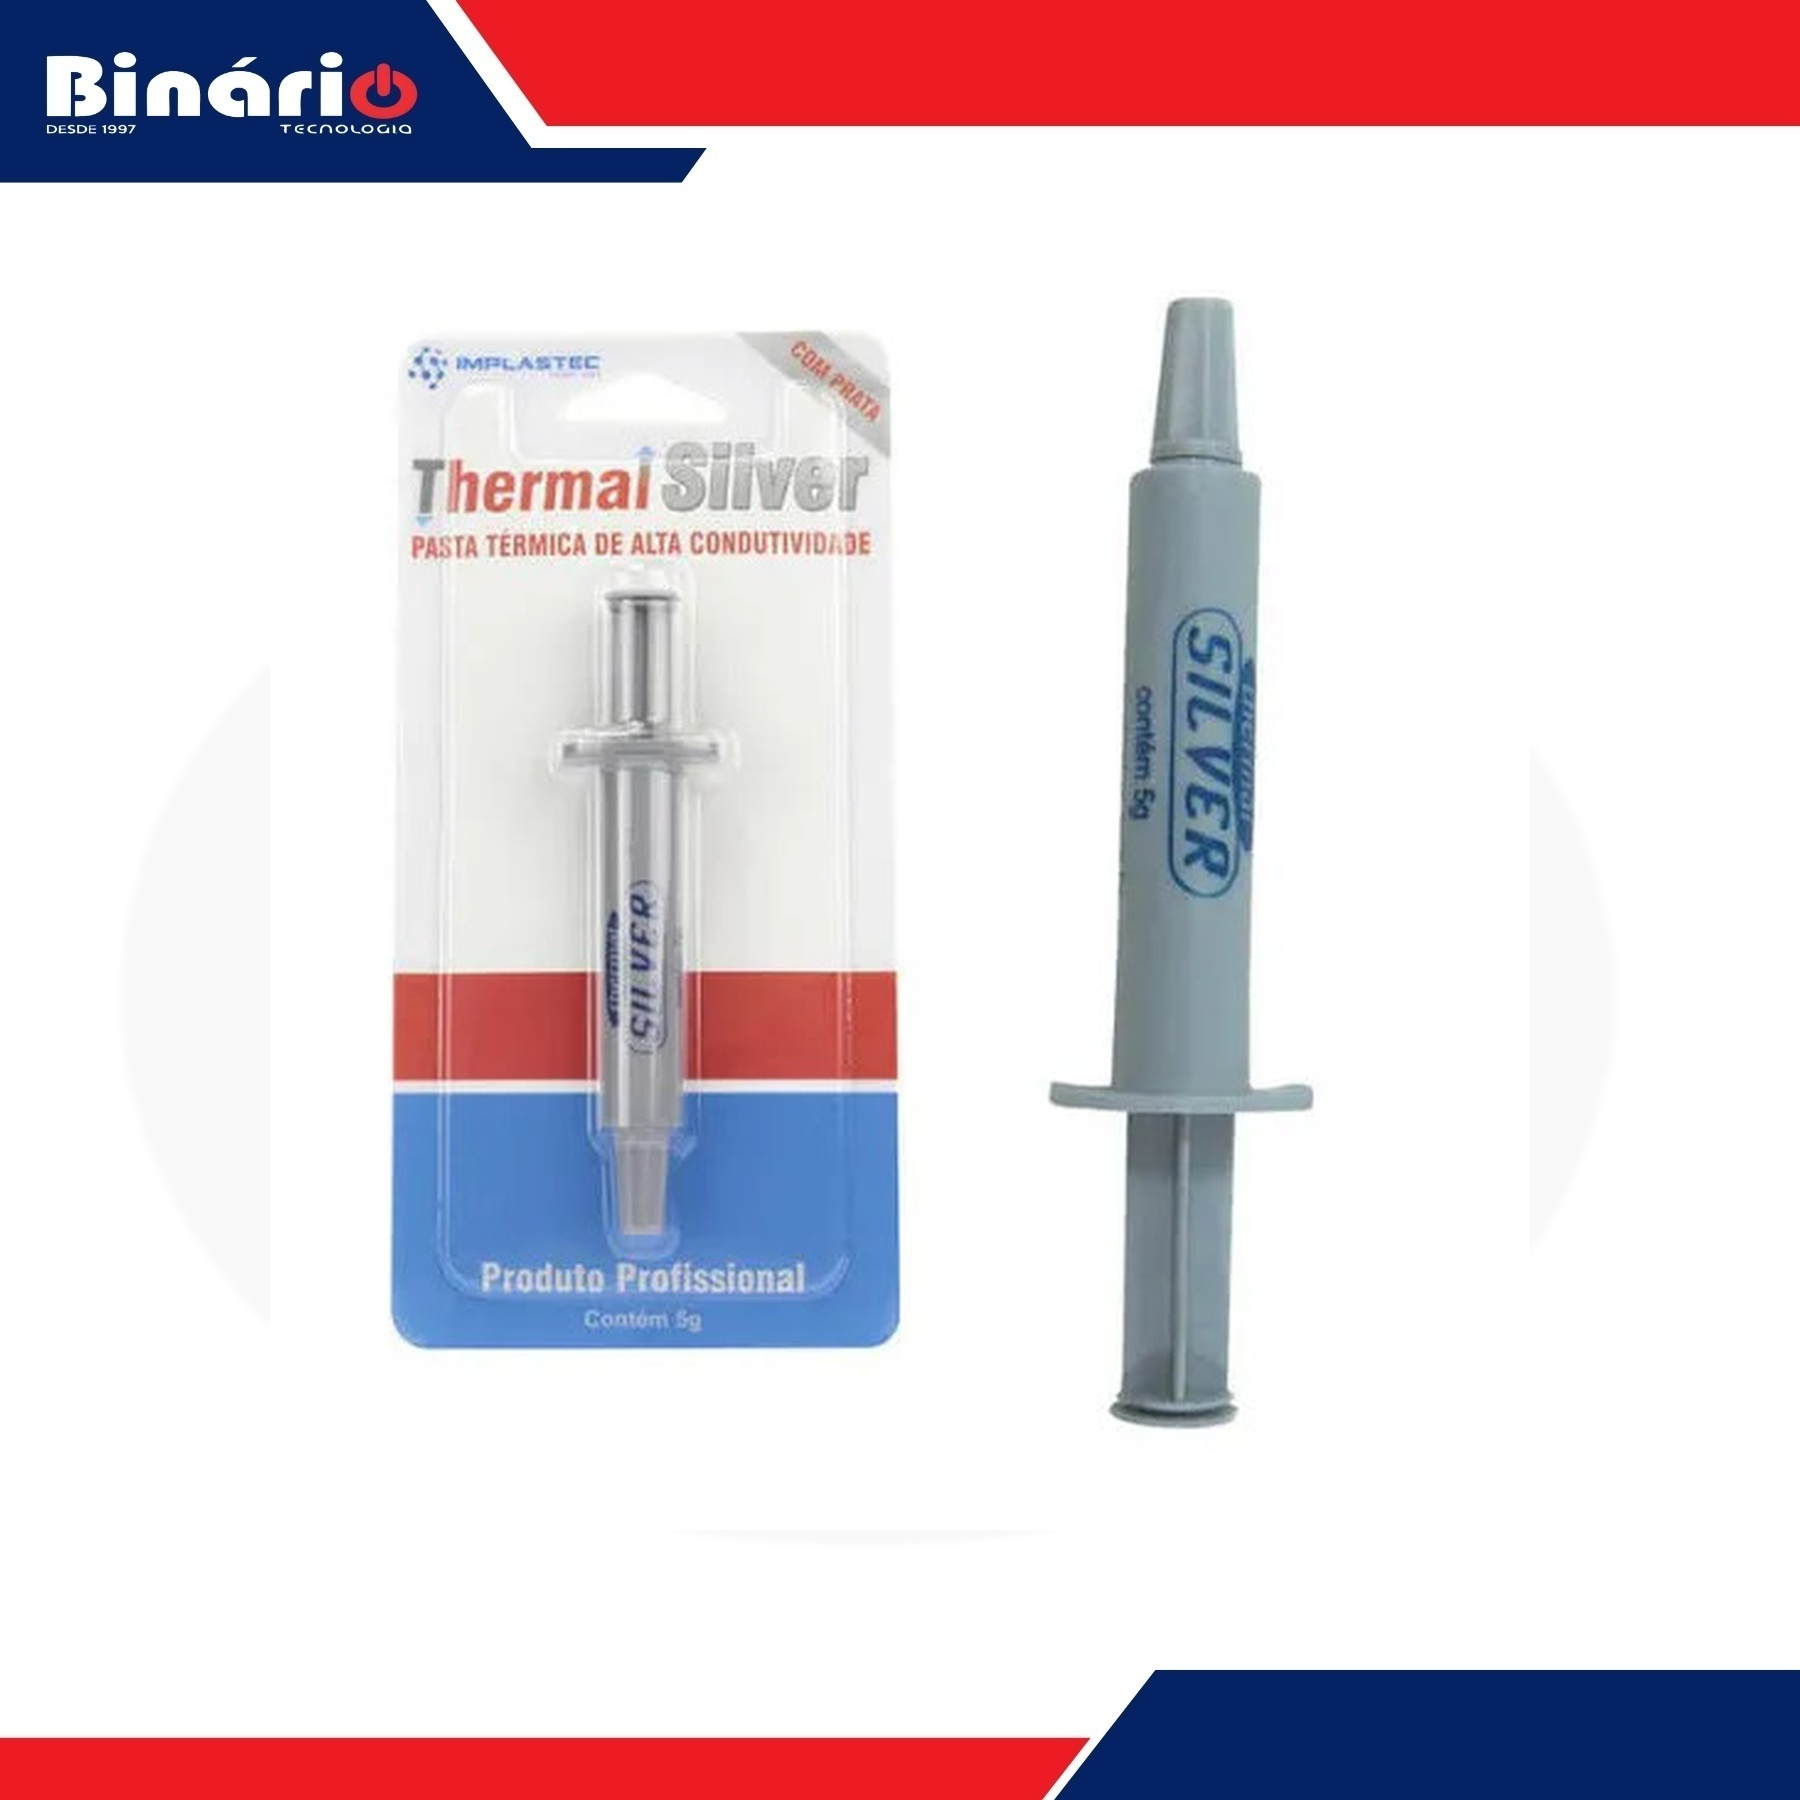
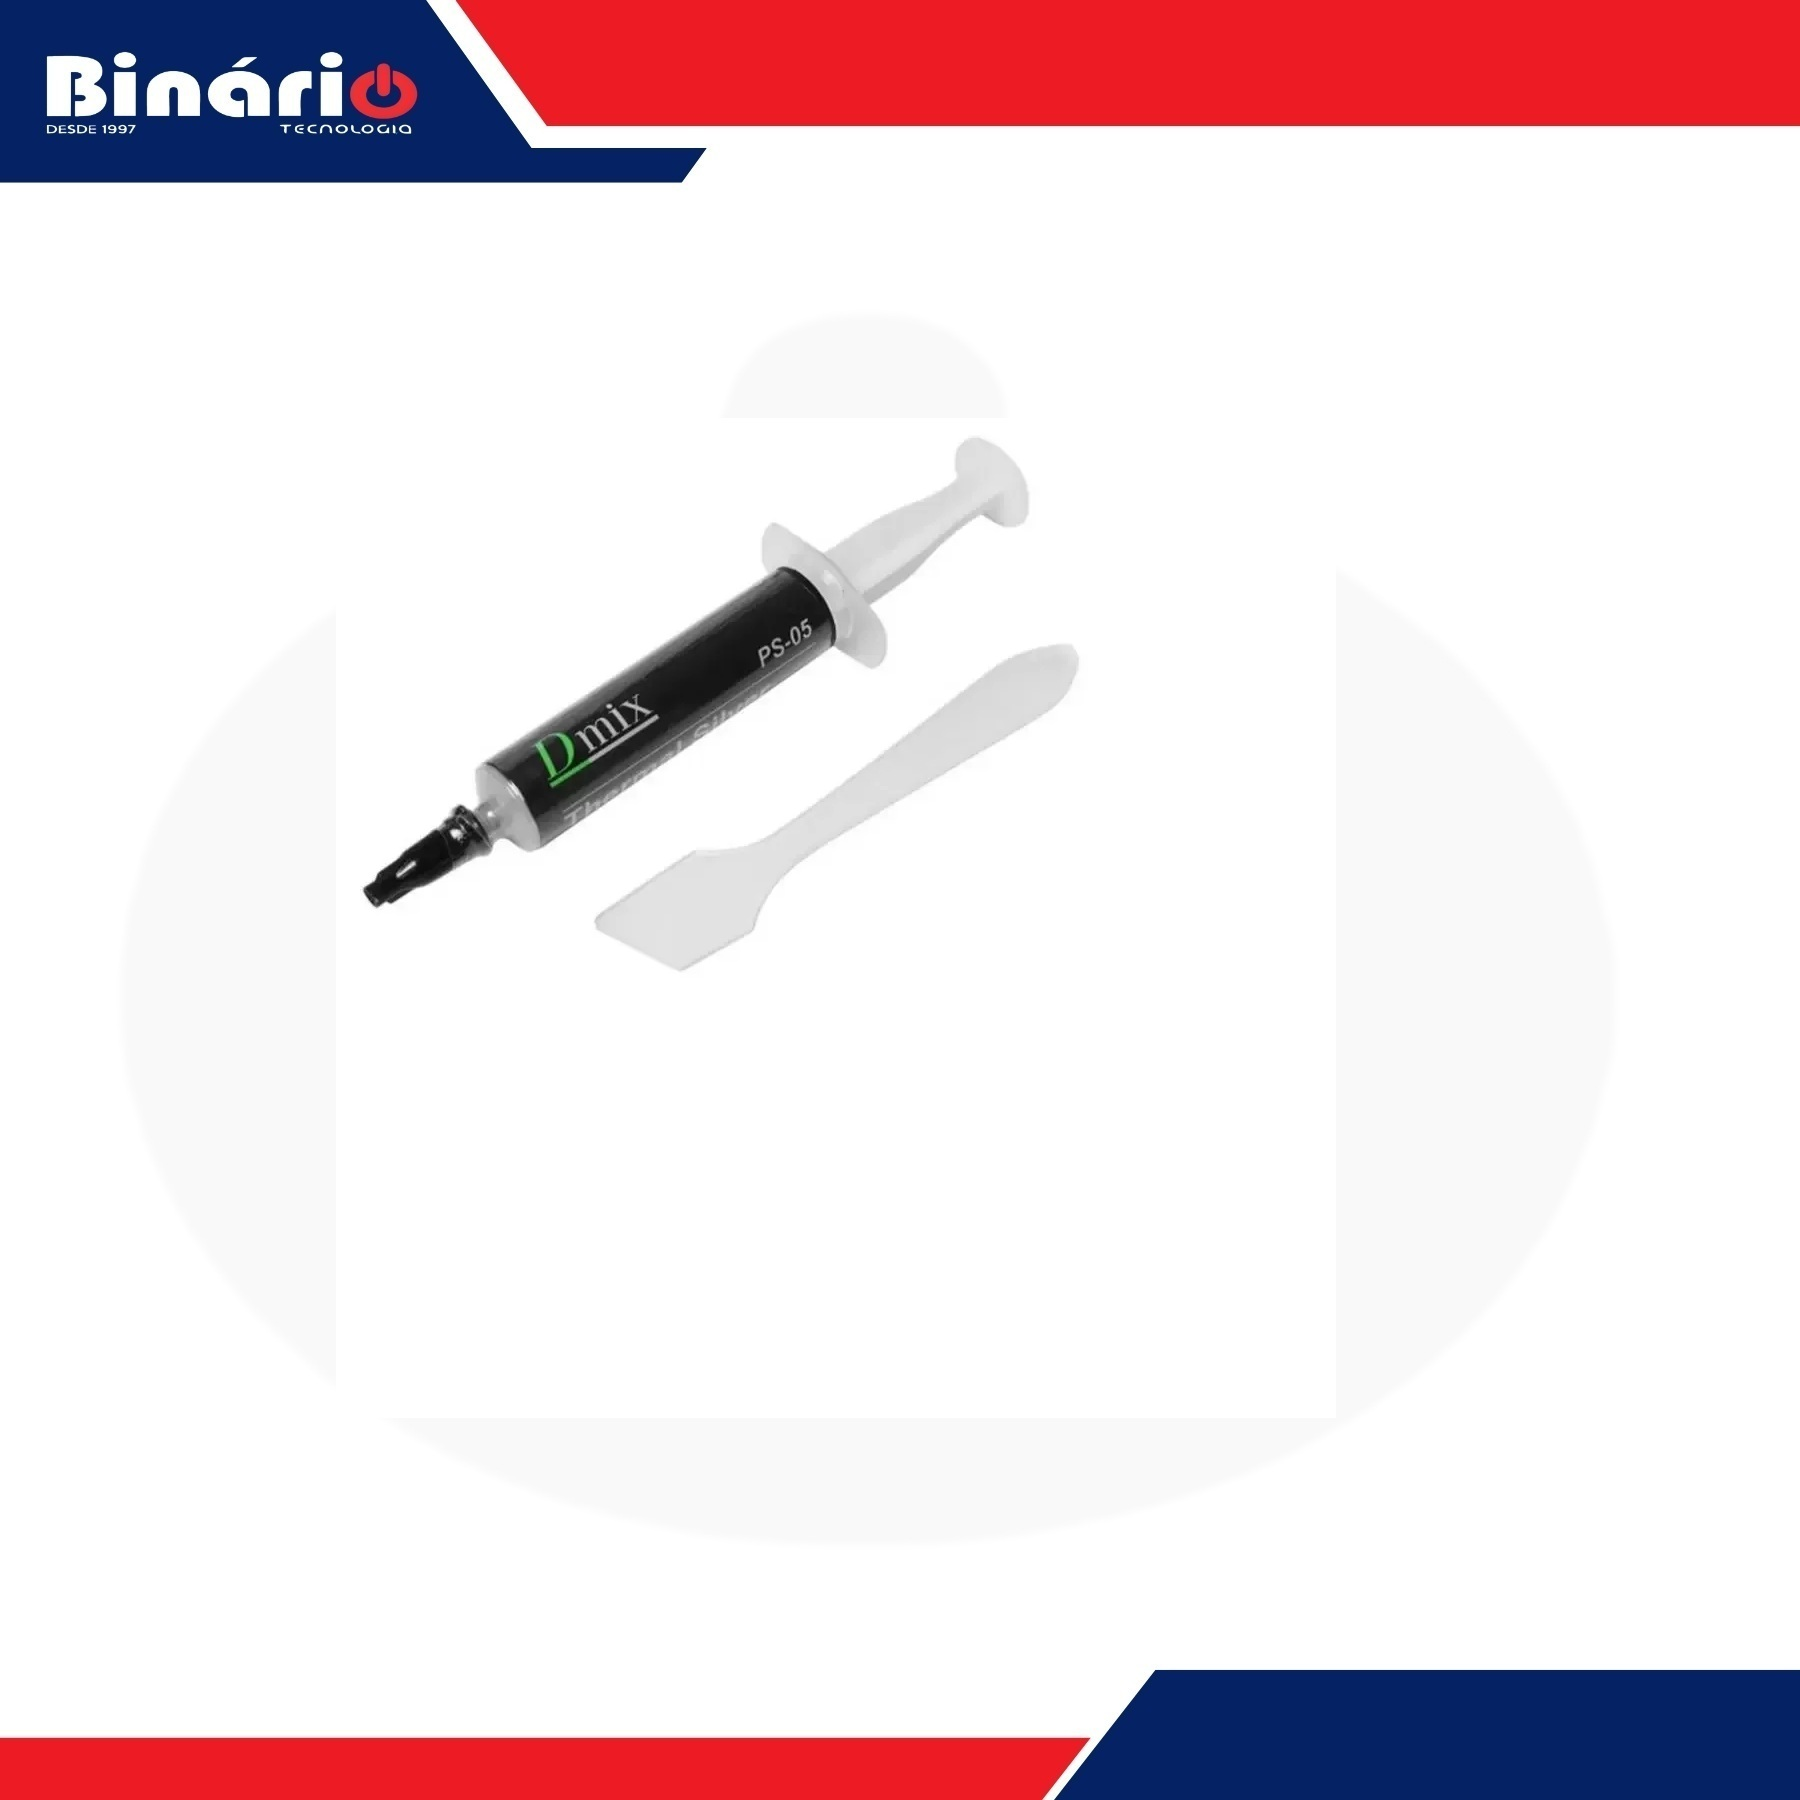
Catalogo finalizando

Changed region(s): [[0.1867, 0.1867, 0.5911, 0.7778], [0.4978, 0.1556, 0.7467, 0.8089], [0.2178, 0.1867, 0.3422, 0.2178]]

diff --git a/src/LoadingScreen.jsx b/src/LoadingScreen.jsx
@@ -1,0 +1,221 @@
+import { useEffect, useRef, useState } from "react";
+
+const logoUrl = "/logo.png";
+
+export default function LoadingScreen({ onComplete }) {
+  const canvasRef = useRef(null);
+  const [pct, setPct] = useState(0);
+  const [count, setCount] = useState(0);
+  const [done, setDone] = useState(false);
+
+  const TARGET = 417;
+  const DURATION = 3800;
+
+  useEffect(() => {
+    const canvas = canvasRef.current;
+    if (!canvas) return;
+    const parent = canvas.parentElement;
+    let W = parent.offsetWidth;
+    let H = parent.offsetHeight;
+    canvas.width = W;
+    canvas.height = H;
+    const ctx = canvas.getContext("2d");
+
+    const COUNT = 90;
+    const particles = Array.from({ length: COUNT }, () => ({
+      x: Math.random() * W,
+      y: Math.random() * H,
+      vx: (Math.random() - 0.5) * 0.28,
+      vy: (Math.random() - 0.5) * 0.28,
+      r: Math.random() * 1.4 + 0.3,
+      a: Math.random() * 0.45 + 0.1,
+    }));
+
+    let raf;
+    function draw() {
+      ctx.clearRect(0, 0, W, H);
+      for (let i = 0; i < COUNT; i++) {
+        for (let j = i + 1; j < COUNT; j++) {
+          const dx = particles[i].x - particles[j].x;
+          const dy = particles[i].y - particles[j].y;
+          const d = Math.sqrt(dx * dx + dy * dy);
+          if (d < 120) {
+            ctx.beginPath();
+            ctx.moveTo(particles[i].x, particles[i].y);
+            ctx.lineTo(particles[j].x, particles[j].y);
+            ctx.strokeStyle = `rgba(26,77,204,${0.2 * (1 - d / 120)})`;
+            ctx.lineWidth = 0.5;
+            ctx.stroke();
+          }
+        }
+      }
+      particles.forEach((p) => {
+        ctx.beginPath();
+        ctx.arc(p.x, p.y, p.r, 0, Math.PI * 2);
+        ctx.fillStyle = `rgba(80,140,255,${p.a})`;
+        ctx.fill();
+        p.x += p.vx;
+        p.y += p.vy;
+        if (p.x < 0 || p.x > W) p.vx *= -1;
+        if (p.y < 0 || p.y > H) p.vy *= -1;
+      });
+      raf = requestAnimationFrame(draw);
+    }
+    draw();
+    return () => cancelAnimationFrame(raf);
+  }, []);
+
+  useEffect(() => {
+    let raf;
+    let start = null;
+    const delay = setTimeout(() => {
+      function anim(ts) {
+        if (!start) start = ts;
+        const raw = Math.min((ts - start) / DURATION, 1);
+        const ease =
+          raw < 0.5
+            ? 2 * raw * raw
+            : 1 - Math.pow(-2 * raw + 2, 2) / 2;
+        setPct(Math.round(ease * 100));
+        setCount(Math.round(ease * TARGET));
+        if (raw < 1) {
+          raf = requestAnimationFrame(anim);
+        } else {
+          setDone(true);
+          setTimeout(onComplete, 600);
+        }
+      }
+      raf = requestAnimationFrame(anim);
+    }, 1200);
+    return () => {
+      clearTimeout(delay);
+      cancelAnimationFrame(raf);
+    };
+  }, []);
+
+  return (
+    <div style={styles.wrap}>
+      <canvas ref={canvasRef} style={styles.canvas} />
+      <div style={styles.vignette} />
+      <div style={{ ...styles.corner, top: 24, left: 24, borderWidth: "1px 0 0 1px" }} />
+      <div style={{ ...styles.corner, top: 24, right: 24, borderWidth: "1px 1px 0 0" }} />
+      <div style={{ ...styles.corner, bottom: 24, left: 24, borderWidth: "0 0 1px 1px" }} />
+      <div style={{ ...styles.corner, bottom: 24, right: 24, borderWidth: "0 1px 1px 0" }} />
+
+      <div style={styles.content}>
+        <img src={logoUrl} alt="Binário Tecnologia" style={styles.logo} />
+        <p style={styles.frase}>
+          OFERTAS IMPERDÍVEIS &nbsp;·&nbsp;{" "}
+          <span style={{ color: "#e53935", fontWeight: 700 }}>APROVEITE</span>
+        </p>
+        <div style={styles.barWrap}>
+          <div style={{ ...styles.barFill, width: `${pct}%` }}>
+            <div style={styles.barDot} />
+          </div>
+        </div>
+        <div style={styles.barRow}>
+          <span>PROMOÇÕES</span>
+          <span style={{ color: "rgba(80,150,255,0.85)" }}>{pct}%</span>
+        </div>
+        <div style={styles.bigWrap}>
+          <span style={styles.bigNum}>{String(count).padStart(3, "0")}</span>
+          <span style={styles.bigLabel}>itens em promoção</span>
+        </div>
+      </div>
+    </div>
+  );
+}
+
+const styles = {
+  wrap: {
+    position: "fixed",
+    inset: 0,
+    background: "#04080f",
+    display: "flex",
+    alignItems: "center",
+    justifyContent: "center",
+    overflow: "hidden",
+    zIndex: 9999,
+    fontFamily: "'Segoe UI', sans-serif",
+  },
+  canvas: { position: "absolute", inset: 0, width: "100%", height: "100%", zIndex: 0 },
+  vignette: {
+    position: "absolute",
+    inset: 0,
+    background: "radial-gradient(ellipse at center, transparent 25%, rgba(4,8,15,0.88) 100%)",
+    zIndex: 1,
+    pointerEvents: "none",
+  },
+  corner: {
+    position: "absolute",
+    width: 22,
+    height: 22,
+    borderColor: "rgba(26,77,204,0.45)",
+    borderStyle: "solid",
+    zIndex: 4,
+  },
+  content: {
+    position: "relative",
+    zIndex: 5,
+    display: "flex",
+    flexDirection: "column",
+    alignItems: "center",
+    gap: 0,
+  },
+  logo: { width: 260, opacity: 1, filter: "brightness(1.05)", marginBottom: 28 },
+  frase: {
+    fontSize: 10,
+    letterSpacing: "0.5em",
+    color: "rgba(255,255,255,0.32)",
+    textTransform: "uppercase",
+    marginBottom: 28,
+    whiteSpace: "nowrap",
+  },
+  barWrap: { width: 280, height: 1, background: "rgba(255,255,255,0.07)", position: "relative", overflow: "visible" },
+  barFill: { height: 1, background: "linear-gradient(90deg, #0d2580, #1a6aff)", position: "relative", transition: "width 80ms linear" },
+  barDot: {
+    position: "absolute",
+    right: -1,
+    top: -3,
+    width: 7,
+    height: 7,
+    borderRadius: "50%",
+    background: "#1a6aff",
+    boxShadow: "0 0 10px #1a6aff, 0 0 24px rgba(26,106,255,0.5)",
+  },
+  barRow: {
+    display: "flex",
+    justifyContent: "space-between",
+    width: 280,
+    marginTop: 10,
+    fontSize: 9,
+    letterSpacing: "0.25em",
+    color: "rgba(255,255,255,0.18)",
+  },
+  bigWrap: { marginTop: 44, position: "relative", textAlign: "center", width: 280 },
+  bigNum: { fontSize: 96, fontWeight: 900, color: "rgba(255,255,255,0.04)", letterSpacing: "-6px", lineHeight: 1, display: "block" },
+  bigLabel: {
+    position: "absolute",
+    top: "50%",
+    left: "50%",
+    transform: "translate(-50%, -50%)",
+    fontSize: 9,
+    letterSpacing: "0.45em",
+    color: "rgba(255,255,255,0.2)",
+    whiteSpace: "nowrap",
+    textTransform: "uppercase",
+  },
+  btn: {
+    marginTop: 32,
+    padding: "12px 40px",
+    background: "transparent",
+    border: "1px solid rgba(26,77,204,0.35)",
+    color: "rgba(255,255,255,0.5)",
+    fontFamily: "'Segoe UI', sans-serif",
+    fontSize: 9,
+    letterSpacing: "0.5em",
+    textTransform: "uppercase",
+    cursor: "pointer",
+    transition: "all 0.3s",
+  },
+};

diff --git a/src/App.css b/src/App.css
@@ -1,8 +1,8 @@
 :root {
-  --fundo-site: #0f172a;
+  --fundo-site: #04080f;
   --card-bg: #1e293b;
   --texto-branco: #f8fafc;
-  --destaque: #38bdf8;
+  --destaque: #2563eb;
   --verde-wpp: #25d366;
   --promo: #f59e0b;
 }
@@ -22,7 +22,7 @@ body {
   justify-content: space-between;
   align-items: center;
   padding: 12px 30px;
-  background: #0b1120;
+  background: #020609;
   border-bottom: 1px solid #1e293b;
   position: sticky;
   top: 0;
@@ -87,7 +87,7 @@ body {
 .contador-itens {
   font-size: 0.85rem;
   color: #94a3b8;
-  background: #0b1120;
+  background: #020609;
   padding: 4px 14px;
   border-radius: 20px;
   border: 1px solid #334155;
@@ -203,7 +203,7 @@ body {
 }
 
 .estoque-info strong {
-  color: #38bdf8;
+  color: #2563eb;
 }
 
 /* --- WHATSAPP --- */
@@ -234,7 +234,7 @@ body {
   bottom: calc(100% + 8px);
   left: 0;
   right: 0;
-  background: #0b1120;
+  background: #020609;
   border: 1px solid #334155;
   border-radius: 10px;
   padding: 12px;

diff --git a/src/App.jsx b/src/App.jsx
@@ -3,6 +3,7 @@ import jsPDF from 'jspdf'
 import 'jspdf-autotable'
 import './App.css'
 import produtos from './produtos.json'
+import LoadingScreen from './LoadingScreen'
 
 const VENDEDORES = [
   { nome: 'Patrícia',  tel: '[phone redacted]' },
@@ -25,7 +26,6 @@ function CardProduto({ produto }) {
 
   return (
     <div className="card">
-      <div className="badge-promo">PROMOÇÃO</div>
       <div className="foto-container">
         <img
           src={`/imagens/${produto.codprod}.jpg`}
@@ -45,9 +45,6 @@ function CardProduto({ produto }) {
           }
         </p>
 
-        <p className="estoque-info">
-          Em estoque: <strong>{produto.estoque}</strong> un.
-        </p>
 
         <div className="botoes-card">
           <div className="whatsapp-wrapper">
@@ -72,6 +69,7 @@ function CardProduto({ produto }) {
 }
 
 function App() {
+  const [loading, setLoading] = useState(true);
   const [busca, setBusca] = useState("");
 
   const produtosFiltrados = produtos.filter(p =>
@@ -100,6 +98,8 @@ function App() {
     });
     doc.save('catalogo_binario.pdf');
   };
+
+  if (loading) return <LoadingScreen onComplete={() => setLoading(false)} />;
 
   return (
     <div className="container">